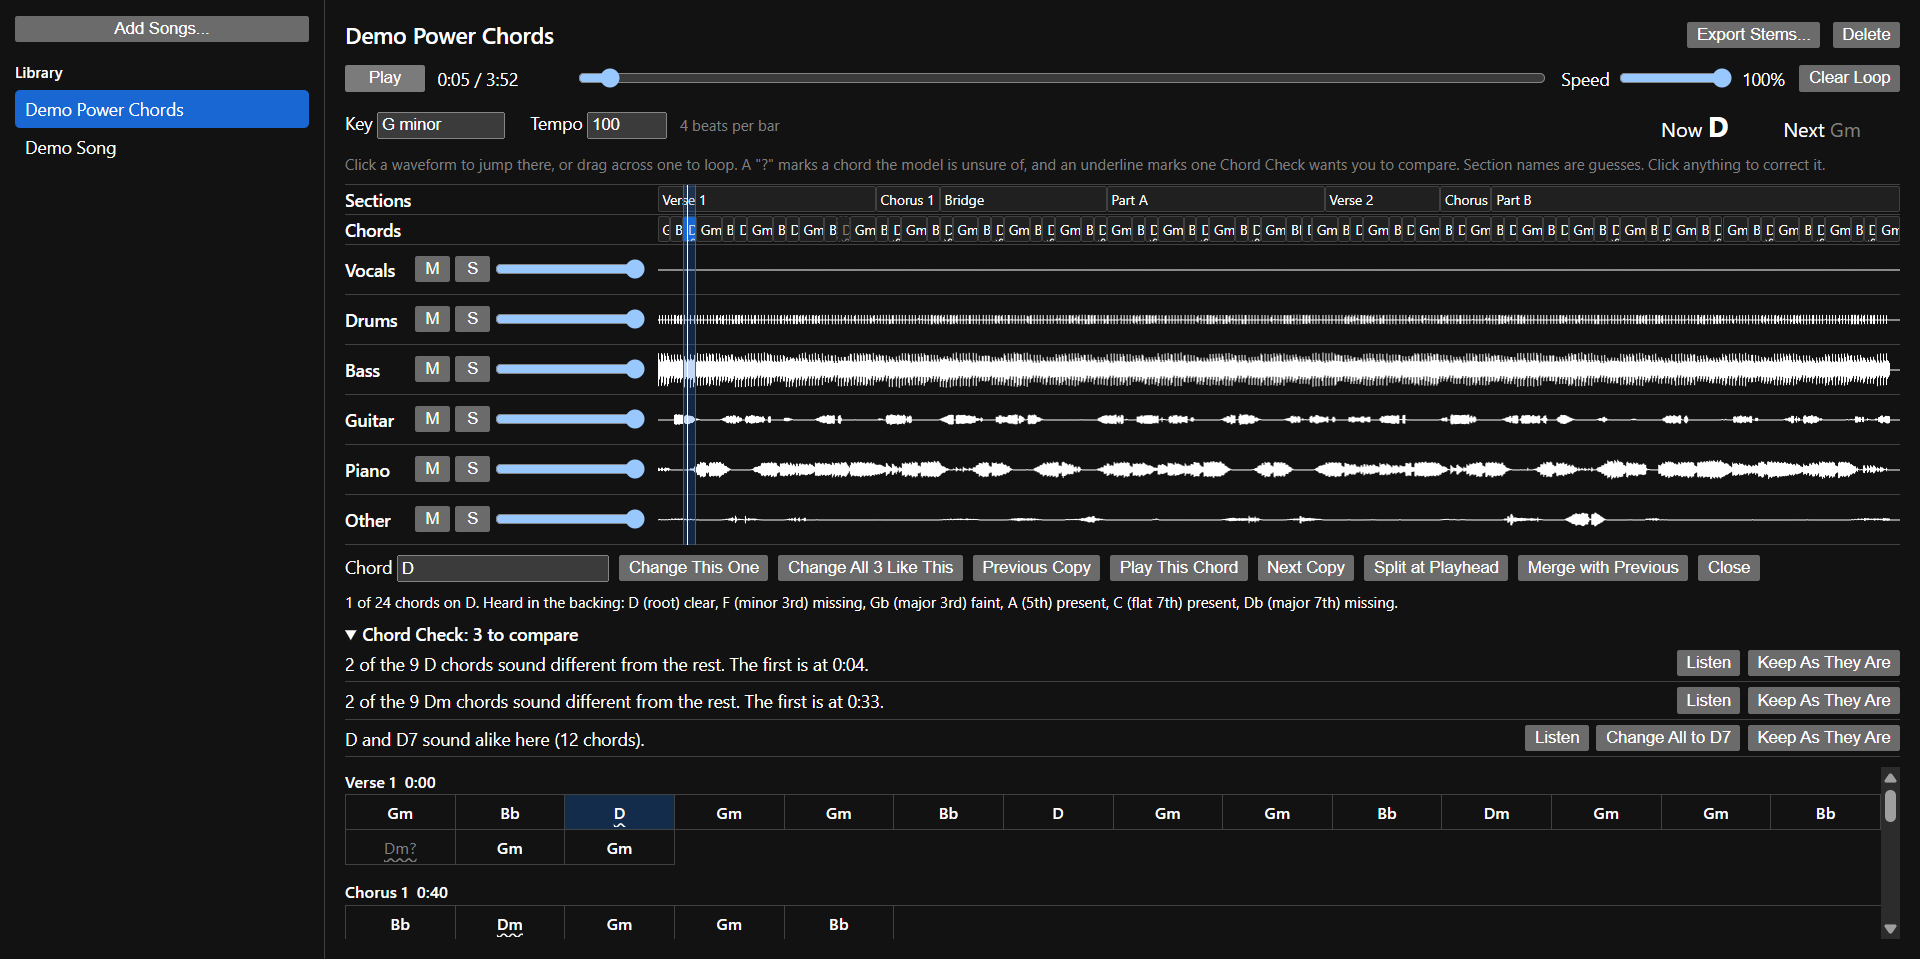
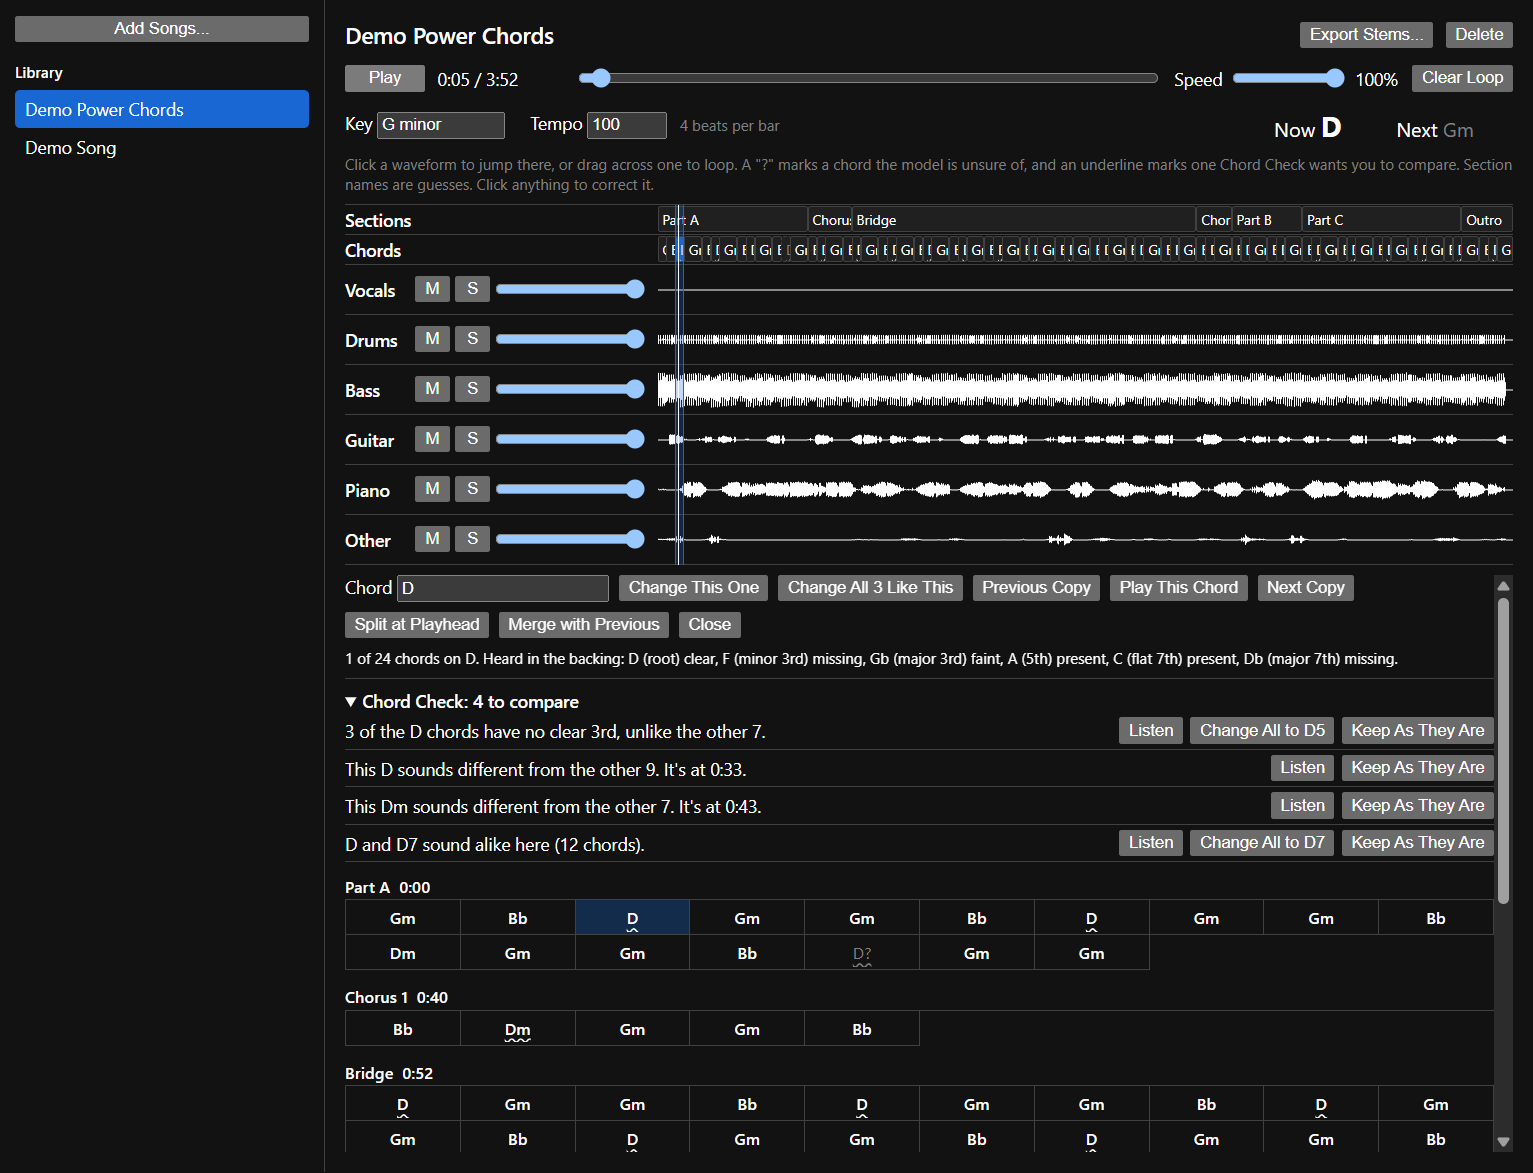
Fix the chord chart getting squeezed when panels are open

diff --git a/app/renderer/styles.css b/app/renderer/styles.css
@@ -132,6 +132,10 @@ ul {
   display: none;
 }
 
+#song-view > * {
+  flex: none;
+}
+
 #main.drop-target {
   outline: 2px dashed Highlight;
   outline-offset: -8px;
@@ -292,13 +296,26 @@ ul {
   color: HighlightText;
 }
 
+#chord-area {
+  position: relative;
+  flex: 1;
+  min-height: 0;
+  margin-top: 8px;
+  overflow-y: auto;
+}
+
 #inspector {
+  position: sticky;
+  top: 0;
+  z-index: 1;
   display: flex;
-  flex: none;
   flex-wrap: wrap;
   align-items: center;
   gap: 8px;
-  margin-top: 8px;
+  margin-bottom: 8px;
+  padding-bottom: 8px;
+  border-bottom: 1px solid var(--border);
+  background: Canvas;
 }
 
 #inspector[hidden] {
@@ -306,17 +323,11 @@ ul {
 }
 
 #chord-check {
-  flex: none;
-  margin-top: 8px;
+  margin-bottom: 8px;
 }
 
 #chord-check summary {
   font-weight: 600;
-}
-
-#chord-check-body {
-  max-height: 140px;
-  overflow-y: auto;
 }
 
 .check-finding {
@@ -344,15 +355,8 @@ ul {
 }
 
 #chart-message {
-  margin-top: 16px;
-  color: GrayText;
-}
-
-#chart {
-  flex: 1;
-  min-height: 80px;
   margin-top: 8px;
-  overflow-y: auto;
+  color: GrayText;
 }
 
 .chart-section {
@@ -484,4 +488,16 @@ ul {
   background: color-mix(in srgb, Highlight 25%, transparent);
   border-right: 1px solid Highlight;
   border-left: 1px solid Highlight;
+}
+
+@media (max-height: 800px) {
+  :root {
+    --row-height: 32px;
+  }
+}
+
+@media (max-height: 640px) {
+  #inspector {
+    position: static;
+  }
 }

diff --git a/app/renderer/index.html b/app/renderer/index.html
@@ -75,18 +75,20 @@
         </div>
       </div>
 
-      <div id="inspector" hidden></div>
+      <div id="chord-area">
+        <div id="inspector" hidden></div>
 
-      <details id="chord-check" hidden>
-        <summary id="chord-check-summary"></summary>
-        <div id="chord-check-body"></div>
-      </details>
+        <details id="chord-check" hidden>
+          <summary id="chord-check-summary"></summary>
+          <div id="chord-check-body"></div>
+        </details>
 
-      <div id="chart-message" hidden>
-        <p id="chart-message-text"></p>
-        <button id="analyse-song" type="button">Analyse This Song</button>
+        <div id="chart-message" hidden>
+          <p id="chart-message-text"></p>
+          <button id="analyse-song" type="button">Analyse This Song</button>
+        </div>
+        <div id="chart"></div>
       </div>
-      <div id="chart"></div>
     </div>
   </main>
 

diff --git a/app/main.js b/app/main.js
@@ -138,7 +138,7 @@ function createWindow() {
     width: 1200,
     height: 760,
     minWidth: 800,
-    minHeight: 500,
+    minHeight: 640,
     title: 'Music in Parts',
     webPreferences: {
       preload: path.join(__dirname, 'preload.js'),
